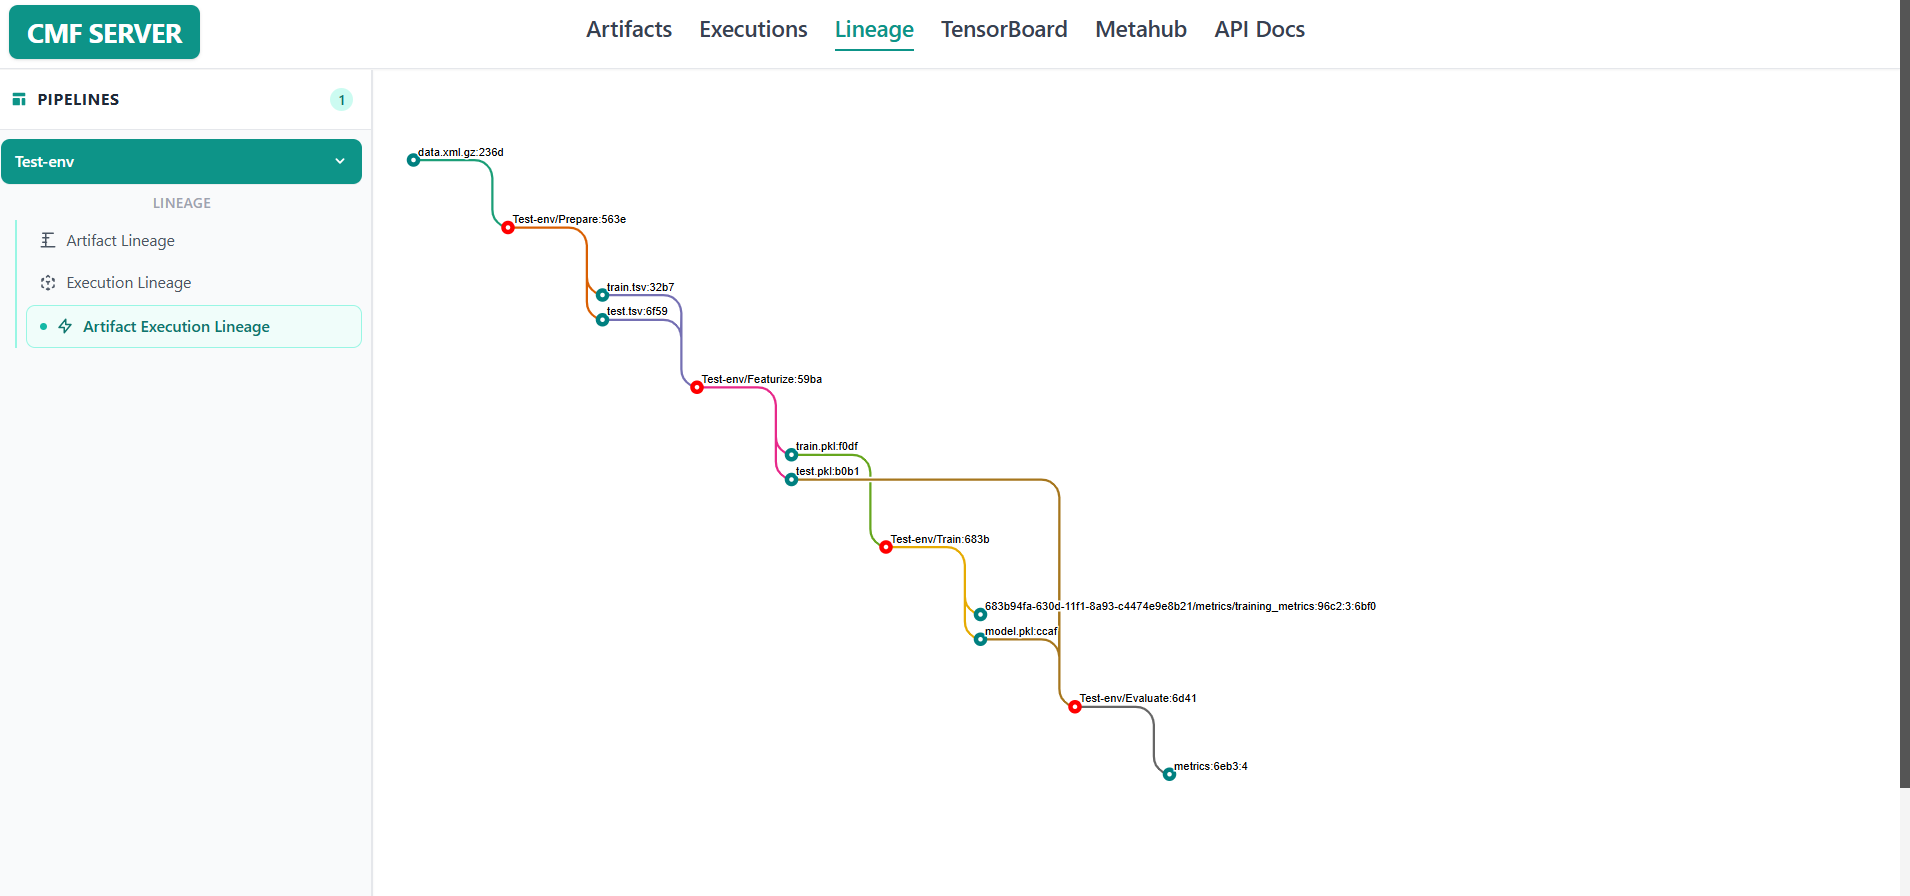
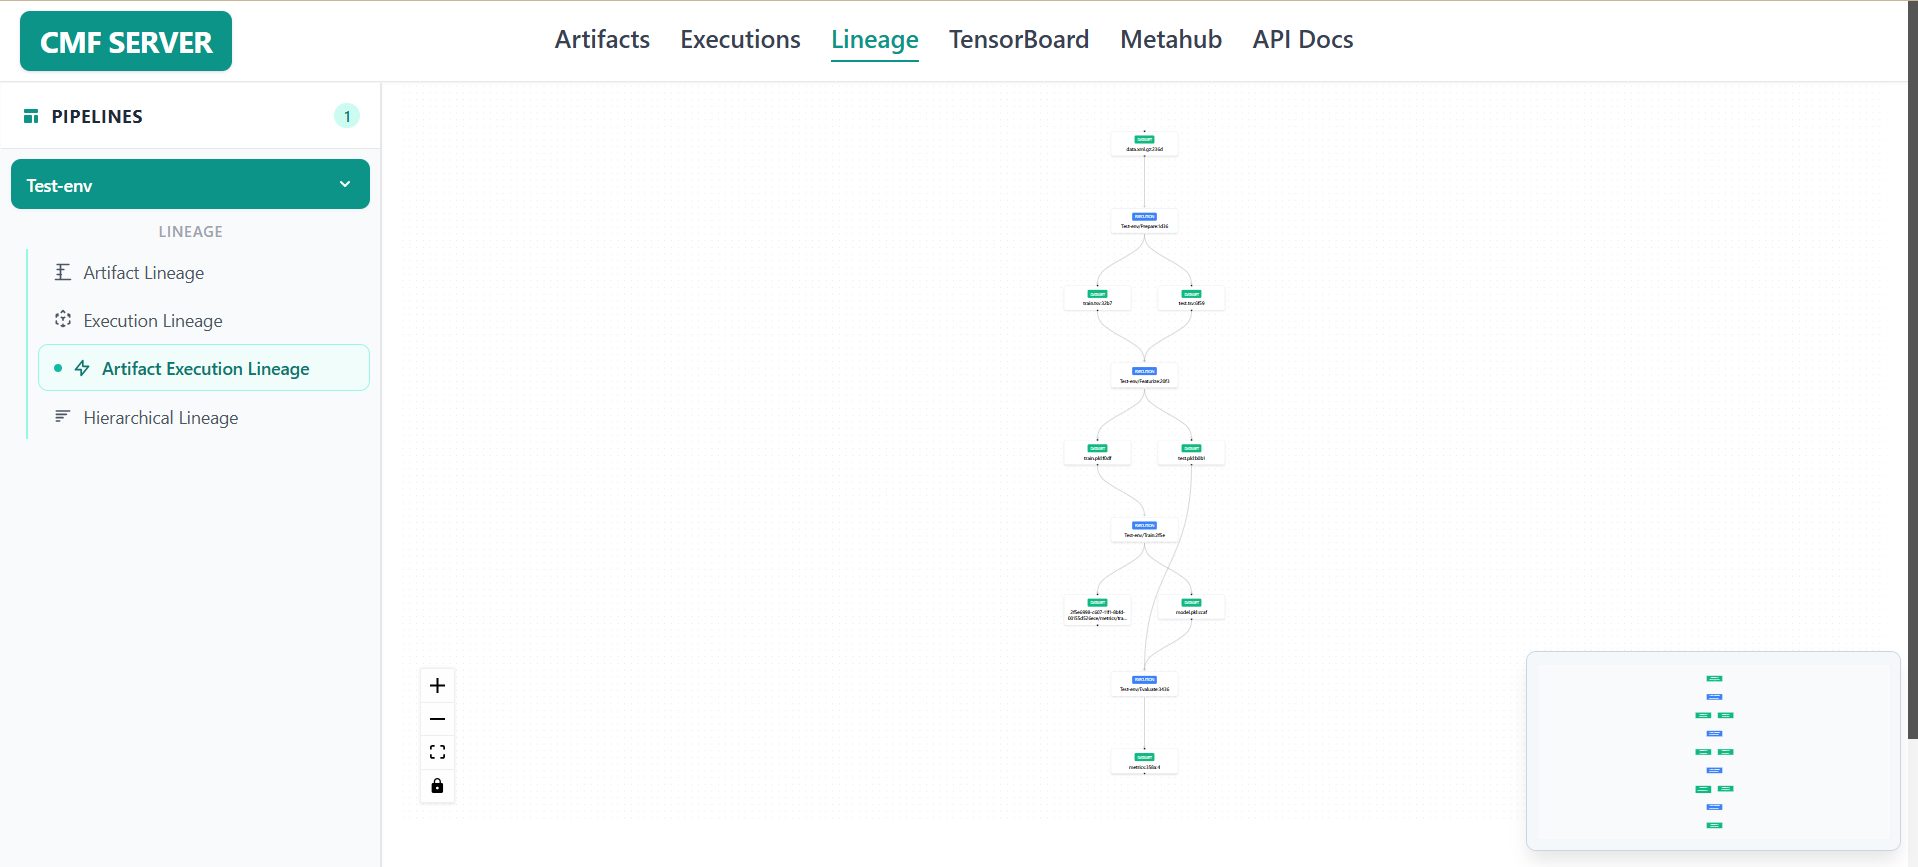
Renamed Images

diff --git a/docs/ui/lineage.md b/docs/ui/lineage.md
@@ -29,7 +29,7 @@ The Lineage page offers three different visualization modes:
 - Tree layout showing parent-child relationships
 - Color-coded by artifact type (Dataset/Model/Metrics)
 
-![Artifact Tree Lineage](../assets/artifact_tree_lineage.png)
+![Artifact Tree Lineage](../assets/Artifact_Lineage.png)
 
 
 ### 2. Execution Lineage
@@ -47,7 +47,7 @@ The Lineage page offers three different visualization modes:
 - Select specific execution type from dropdown
 - Shows execution order and dependencies
 
-![Execution Tree Lineage](../assets/execution_tree_lineage.png)
+![Execution Tree Lineage](../assets/Execution_Lineage.png)
 
 
 ### 3. Artifact-Execution Lineage
@@ -67,7 +67,7 @@ The Lineage page offers three different visualization modes:
 - Complete provenance trail
 - Filtered by pipeline
 
-![Artifact Execution Tree Lineage](../assets/artifact_exec_tree_lineage.png)
+![Artifact Execution Tree Lineage](../assets/ArtifactExecutionLineage.png)
 
 ### 4. Hierarchical Lineage
 

diff --git a/docs/ui/index.md b/docs/ui/index.md
@@ -71,7 +71,7 @@ The Lineage page offers interactive visualizations of data flow and dependencies
 2. **Execution Lineage**: Hierarchical view of execution flow
 3. **Artifact-Execution Lineage**: Combined view showing both artifacts and executions
 
-![CMF ArtifactExecution Page](../assets/artifact_exec_tree_lineage.png)
+![CMF ArtifactExecution Page](../assets/ArtifactExecutionLineage.png)
 
 ---
 
